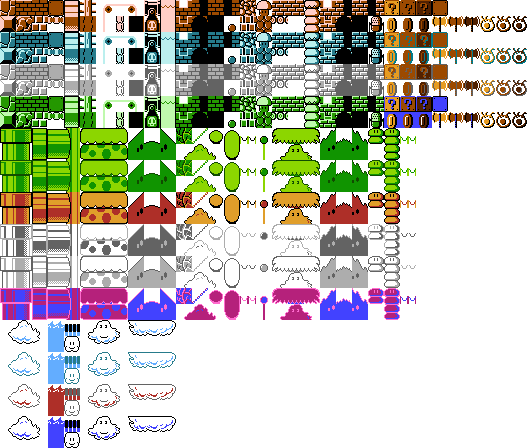
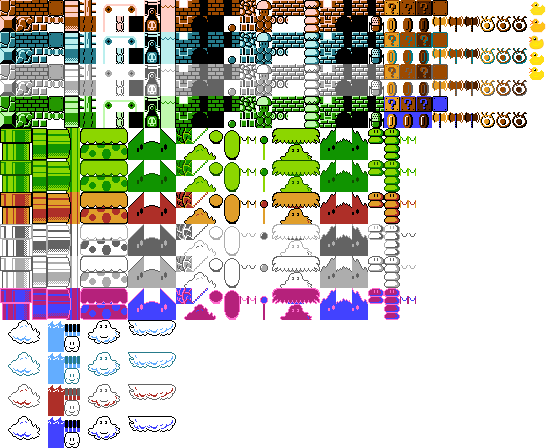
ducky added

diff --git a/public/js/entities/Ducky.js b/public/js/entities/Ducky.js
@@ -1,0 +1,65 @@
+import Entity, {Sides, Trait} from '../Entity.js';
+import Killable from '../traits/Killable.js';
+import PendulumMove from '../traits/PendulumMove.js';
+// import Physics from '../traits/Physics.js';
+import Solid from '../traits/Solid.js';
+import {loadSpriteSheet} from '../loaders.js';
+
+export function loadDucky() {
+    return loadSpriteSheet('ducky')
+    .then(createDuckyFactory);
+}
+
+
+class Behavior extends Trait {
+    constructor() {
+        super('behavior');
+    }
+
+    collides(us, them) {
+        if (us.killable.dead) {
+            return;
+        }
+
+        if (them.stomper) {
+            if (them.vel.y >= us.vel.y) {
+                us.killable.kill();
+                us.pendulumMove.speed = 0;
+            } else  {
+                us.killable.kill();
+            }
+        }
+    }
+}
+
+
+function createDuckyFactory(sprite) {
+    const walkAnim = sprite.animations.get('quack');
+
+    function routeAnim(ducky) {
+        if (ducky.killable.dead) {
+            return 'ducky-1';
+        }
+
+        return walkAnim(ducky.lifetime);
+    }
+
+    function drawDucky(context) {
+        sprite.draw(routeAnim(this), context, 0, 0);
+    }
+
+    return function createDucky() {
+        const ducky = new Entity();
+        ducky.size.set(16, 16);
+
+        // ducky.addTrait(new Physics());
+        ducky.addTrait(new Solid());
+        ducky.addTrait(new PendulumMove());
+        ducky.addTrait(new Behavior());
+        ducky.addTrait(new Killable());
+
+        ducky.draw = drawDucky;
+
+        return ducky;
+    };
+}

diff --git a/public/js/layers/dashboard.js b/public/js/layers/dashboard.js
@@ -1,12 +1,14 @@
 export function createDashboardLayer(font, playerEnv) {
     const LINE1 = font.size;
     const LINE2 = font.size * 2;
+    const LINE3 = font.size * 3;
+    var life = '%'
 
     const coins = 0;
     const score = 24500;
 
     return function drawDashboard(context) {
-        const {score, time} = playerEnv.playerController;
+        const {score, time, coins} = playerEnv.playerController;
 
         font.print('Penguin Knight', context, 16, LINE1);
         font.print(score.toString().padStart(6, '0'), context, 16, LINE2);
@@ -18,5 +20,7 @@ export function createDashboardLayer(font, playerEnv) {
 
         font.print('TIME', context, 208, LINE1);
         font.print(time.toFixed().toString().padStart(3, '0'), context, 216, LINE2);
+
+        font.print("%%%", context, 16, LINE3);
     };
 }

diff --git a/public/js/traits/PlayerController.js b/public/js/traits/PlayerController.js
@@ -8,6 +8,8 @@ export default class PlayerController extends Trait {
         this.player = null;
         this.score = 0;
         this.time = 300;
+        this.coins = 0;
+        this.life = 3;
     }
 
     setPlayer(entity) {
@@ -15,7 +17,13 @@ export default class PlayerController extends Trait {
 
         this.player.stomper.onStomp = () => {
             this.score += 100;
+            this.coins += 1;
         }
+
+        // this.player.collide.onCollide = () => {
+        //     this.score += 100;
+        //     this.coins += 1;
+        // }
     }
 
     update(entity, deltaTime, level) {

diff --git a/public/js/entities.js b/public/js/entities.js
@@ -1,6 +1,7 @@
 import {loadMario} from './entities/Mario.js';
 import {loadGoomba} from './entities/Goomba.js';
 import {loadKoopa} from './entities/Koopa.js';
+import {loadDucky} from './entities/Ducky.js';
 
 
 export function loadEntities() {
@@ -15,6 +16,7 @@ export function loadEntities() {
         loadMario().then(addAs('mario')),
         loadGoomba().then(addAs('goomba')),
         loadKoopa().then(addAs('koopa')),
+        loadDucky().then(addAs('ducky')),
     ])
     .then(() => entityFactories);
 }

diff --git a/public/js/traits/Collect.js b/public/js/traits/Collect.js
@@ -1,0 +1,23 @@
+import {Sides, Trait} from '../Entity.js';
+
+export default class Collect extends Trait {
+    constructor() {
+        super('collect');
+        
+
+        this.onCollect = function() {
+        }
+    }
+
+
+
+    collides(us, them) {
+        if (!them.killable || them.killable.dead) {
+            return;
+        }
+
+        if (us.vel.y > them.vel.y) {
+            this.onCollect(us, them);
+        }
+    }
+}

diff --git a/public/js/layers/collision.js b/public/js/layers/collision.js
@@ -46,7 +46,7 @@ export function createCollisionLayer(level) {
     const drawBoundingBoxes = createEntityLayer(level.entities);
 
     return function drawCollision(context, camera) {
-        drawTileCandidates(context, camera);
-        drawBoundingBoxes(context, camera);
+        // drawTileCandidates(context, camera);
+        // drawBoundingBoxes(context, camera);
     };
 }

diff --git a/public/js/entities/Koopa.js b/public/js/entities/Koopa.js
@@ -126,7 +126,7 @@ function createKoopaFactory(sprite) {
     return function createKoopa() {
         const koopa = new Entity();
         koopa.size.set(16, 16);
-        koopa.offset.y = 8;
+        koopa.offset.y = -1;
 
         koopa.addTrait(new Physics());
         koopa.addTrait(new Solid());

diff --git a/public/js/loaders/font.js b/public/js/loaders/font.js
@@ -18,7 +18,7 @@ class Font {
 
 
 export function loadFont() {
-    return loadImage('./img/font.png')
+    return loadImage('./img/fonts.png')
     .then(image => {
         const fontSprite = new SpriteSheet(image);
 
